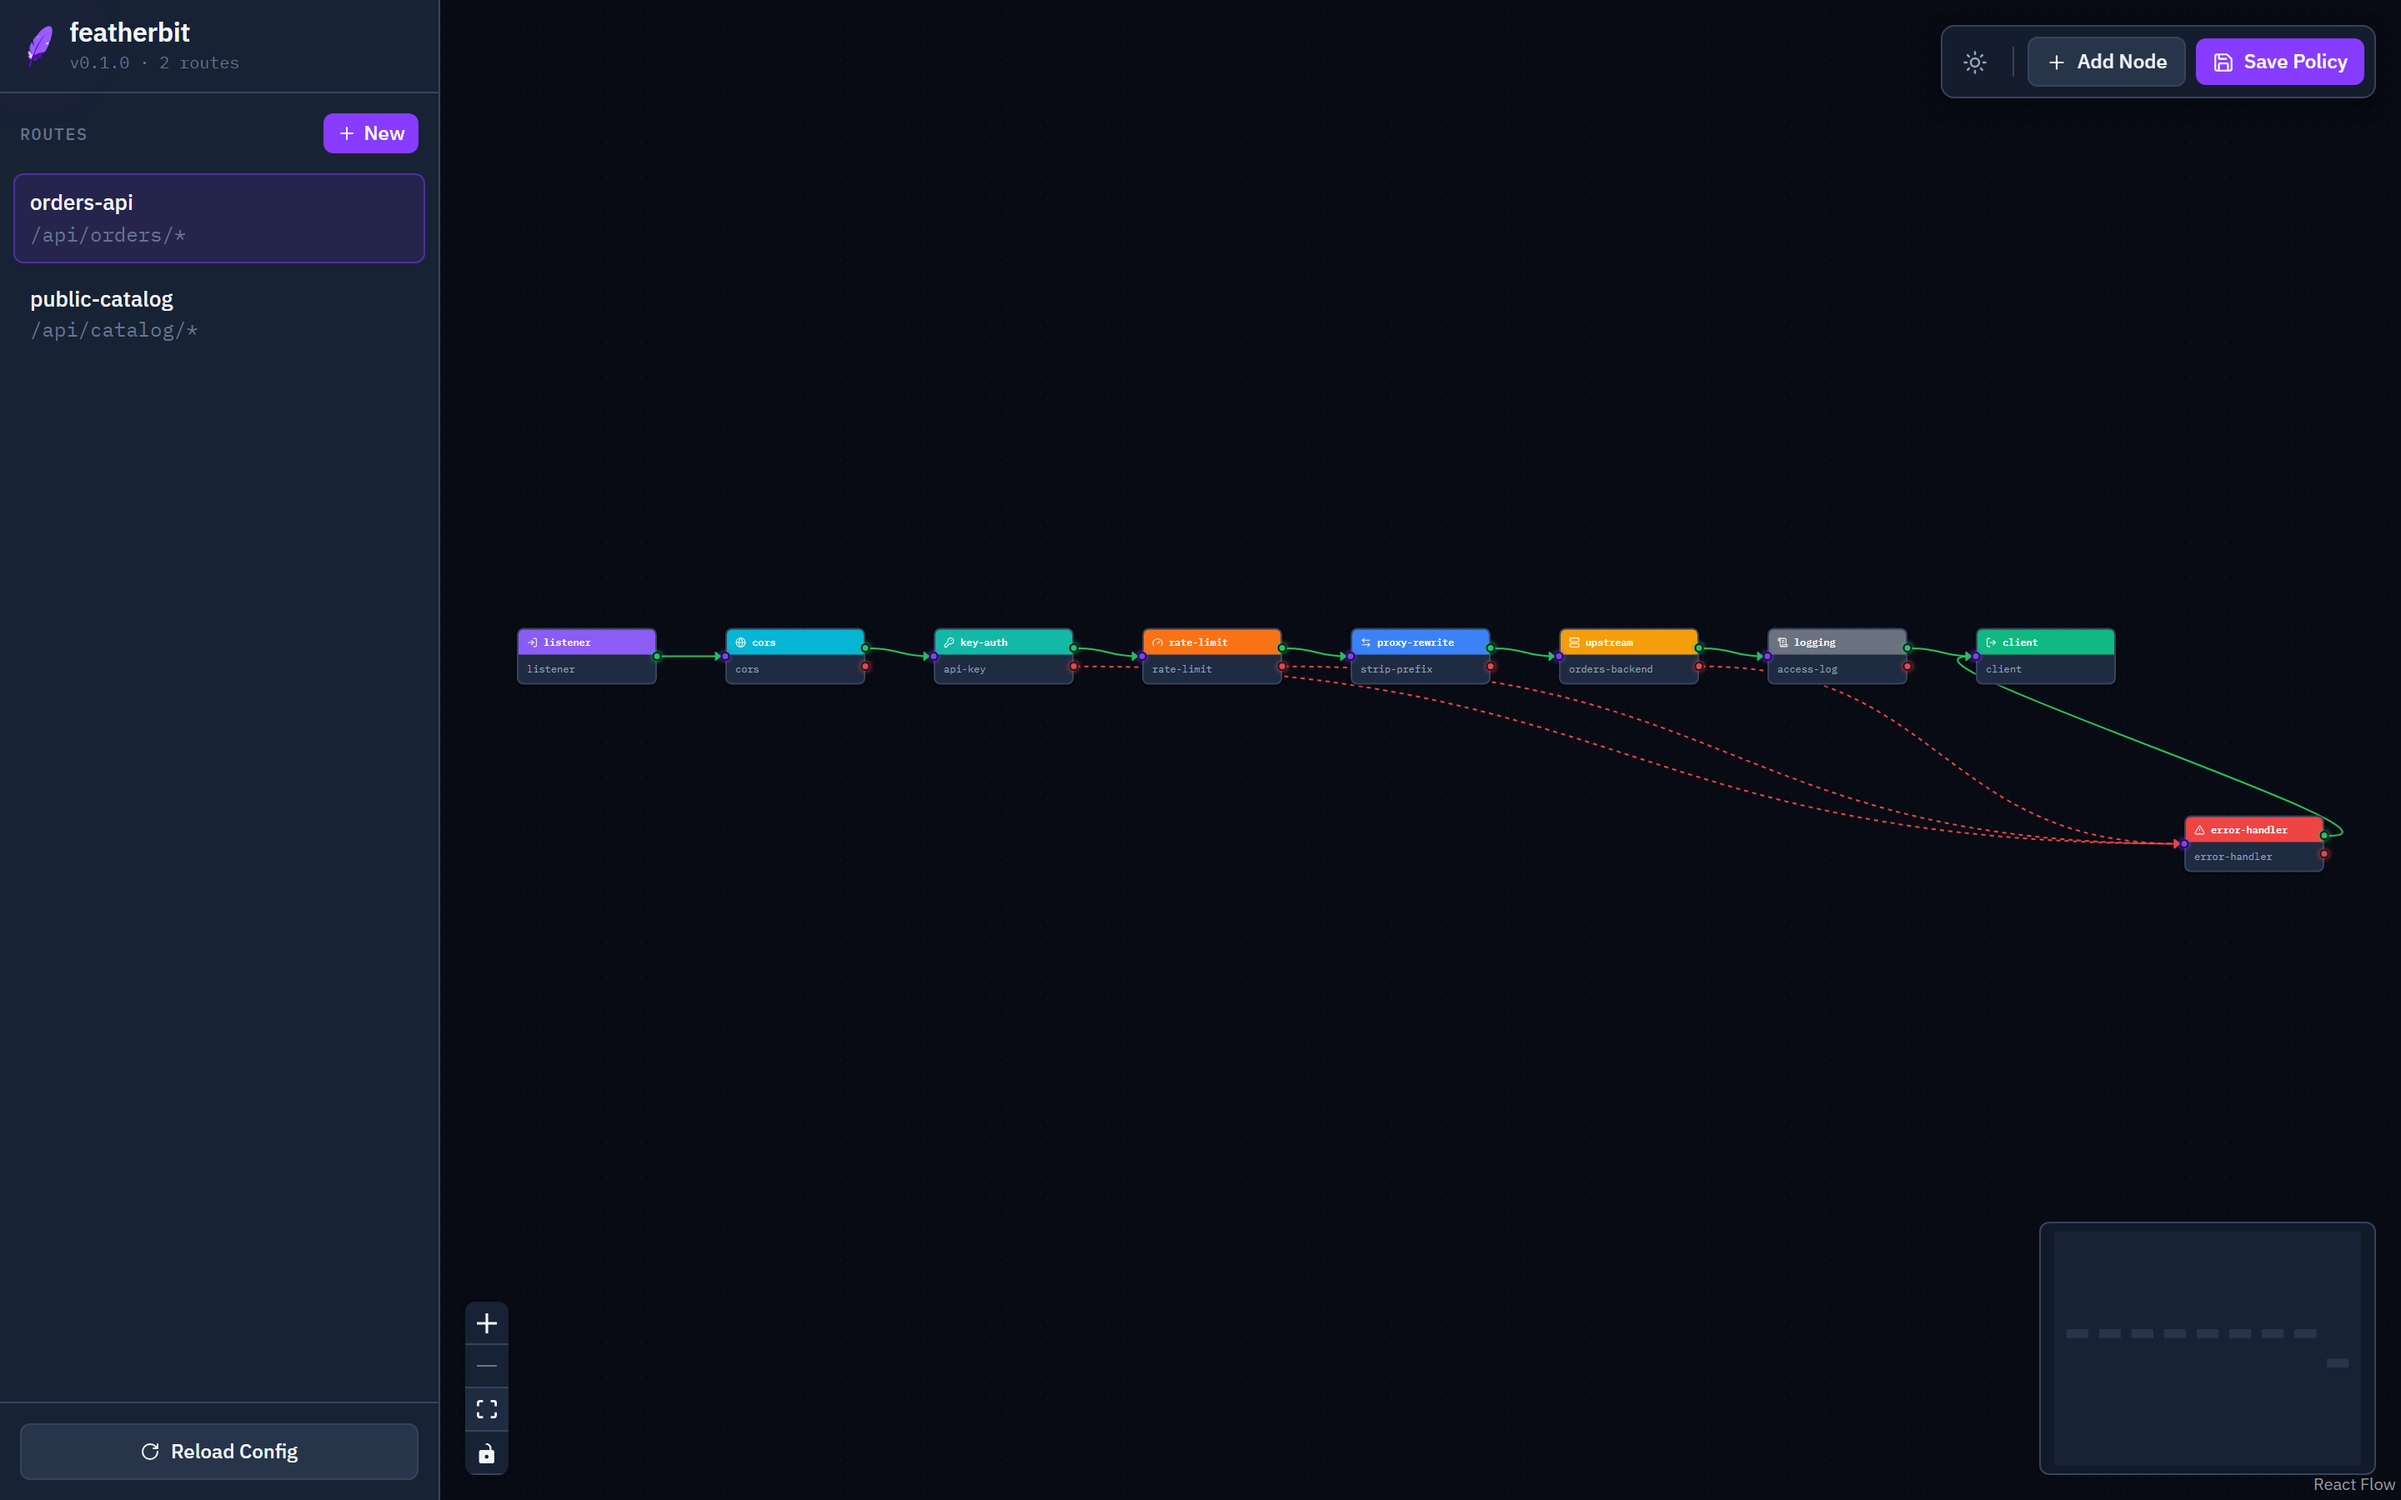
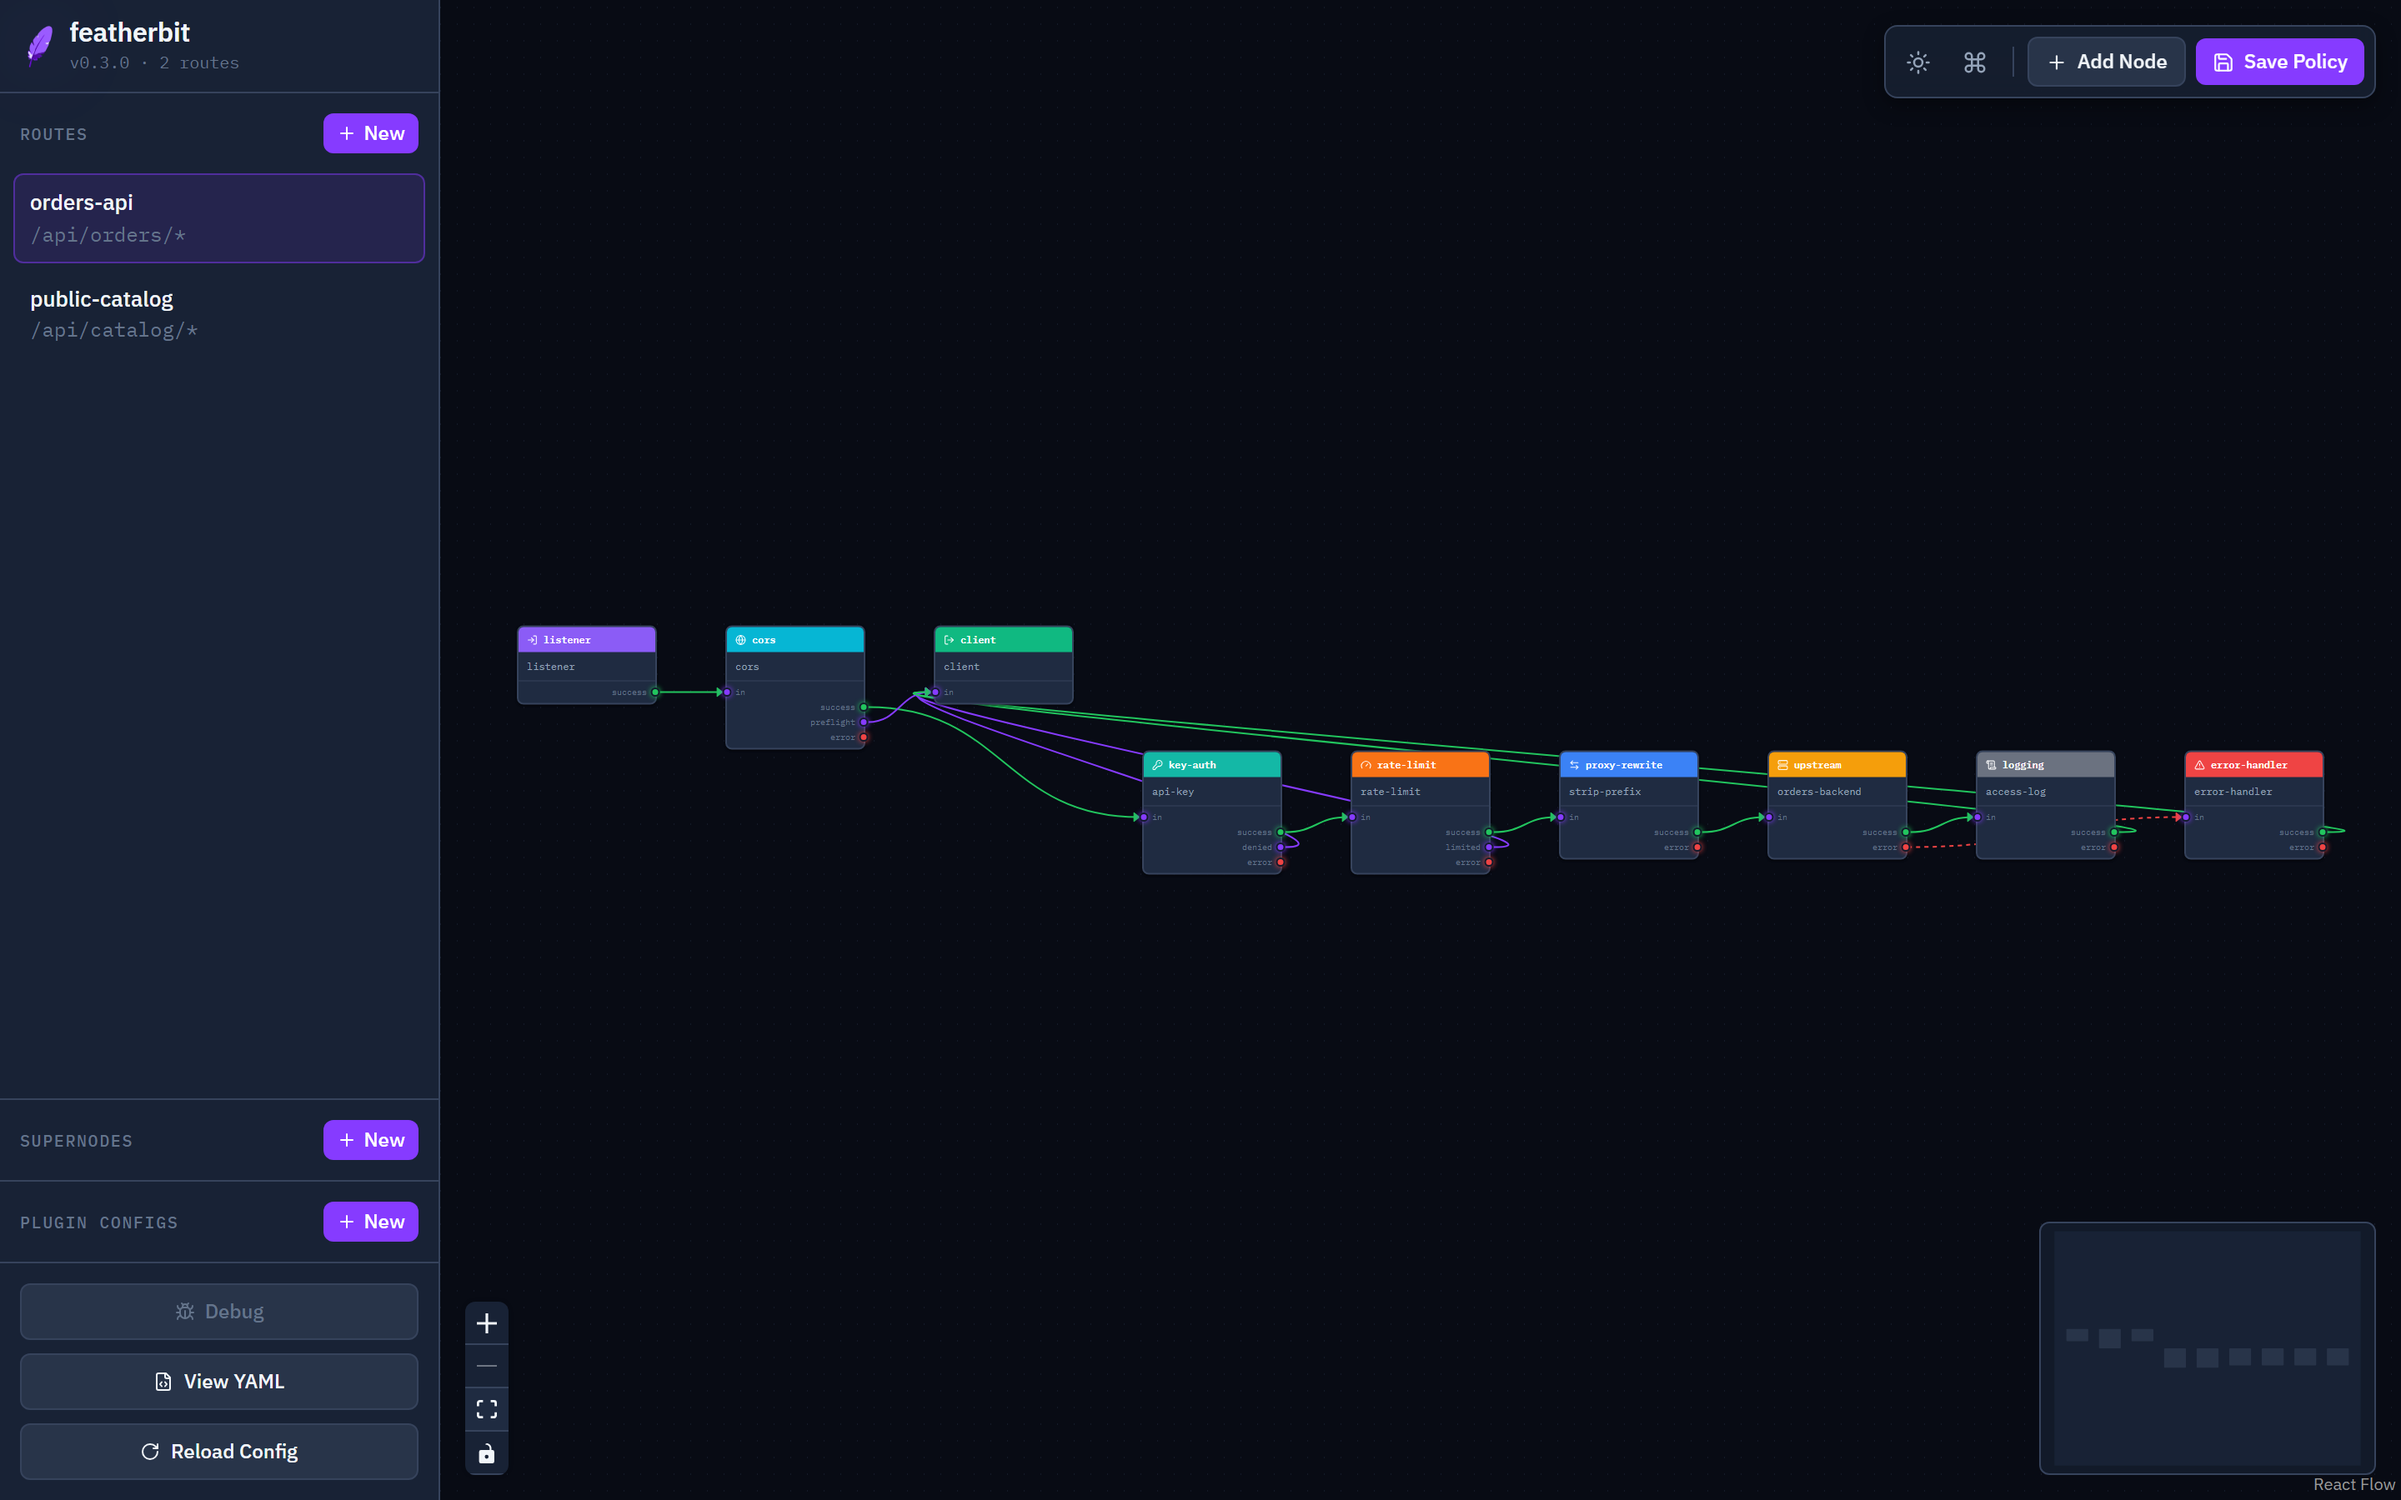
docs: refresh editor screenshots and document the command palette

diff --git a/website/docs/concepts/policies-and-graphs.md b/website/docs/concepts/policies-and-graphs.md
@@ -9,8 +9,8 @@ A **routing policy** is a directed node graph that defines how requests matched 
 
 <UiShot
   name="policy-graph"
-  alt="A policy graph: listener, cors, key-auth, rate-limit, proxy-rewrite, upstream and logging chained by green success edges, with red dashed error edges from several of those nodes converging on one shared error-handler whose success edge returns to client."
-  caption={<>A policy as the editor draws it. Solid green edges are the <code>success</code> path: <code>listener</code> → CORS → auth → rate limit → rewrite → upstream → access log → <code>client</code>. The dashed red edges are <code>error</code> ports, all landing on one <code>error-handler</code> rather than a raw 500. Note what an error edge means here: rate-limit's fires when the limiter <em>store</em> is unreachable — not when a client is throttled. A throttled client is a deliberate outcome, so it leaves on rate-limit's own <code>limited</code> port straight to <code>client</code> with its 429 already prepared, exactly as a rejected API key leaves key-auth on <code>denied</code>. (This capture predates the outcome ports, so those two edges are not drawn.)</>}
+  alt="A policy graph with each node's ports drawn as labeled rows: a green success chain runs listener, cors, key-auth, rate-limit, proxy-rewrite, upstream, logging, client; a single red dashed error edge runs from upstream to error-handler, whose success edge returns to client; violet edges carry cors's preflight, key-auth's denied, and rate-limit's limited outcomes straight to client."
+  caption={<>A policy as the editor draws it, with every node's ports rendered as labeled rows. Solid green edges are the <code>success</code> path: <code>listener</code> → cors → key-auth → rate-limit → proxy-rewrite → upstream → logging → <code>client</code>. The single dashed red edge is an <code>error</code> port: upstream's fires only when the backend itself is unreachable, landing on <code>error-handler</code> rather than a raw 500. The violet edges are a different thing entirely — deliberate outcomes, not failures — so each one exits straight to <code>client</code> with its response already prepared: cors's <code>preflight</code> for an answered OPTIONS request, key-auth's <code>denied</code> for a rejected API key, and rate-limit's <code>limited</code> for a throttled one.</>}
 />
 
 ## Nodes
@@ -182,6 +182,26 @@ policies:
 ```
 
 This same YAML is what the web UI reads and writes — designing the graph on the canvas and editing the file by hand are interchangeable.
+
+## Command palette
+
+The editor has a command palette: `Ctrl+K`, or the command-icon button in the canvas toolbar next to the theme toggle, opens a searchable modal listing every action available in the current context, each row showing its keyboard shortcut as a small chip. Type to filter, arrow keys to move the selection, Enter to run, Escape to close.
+
+One entry — **Toggle port names** — is the switch behind the labeled port rows in the screenshot above. It's on by default; turning it off falls back to bare handle dots with the port name available only as a hover tooltip. The preference is stored in the browser's `localStorage` (key `portNames`) and persists across sessions, independent of whatever policy happens to be open.
+
+The v1 shortcut list:
+
+| Key | Action | Available |
+|---|---|---|
+| `P` | Toggle port names | Always |
+| `R` | New route | Always |
+| `S` | New supernode | Always |
+| `C` | New shared plugin config | Always |
+| `A` | Add plugin to canvas | Editor open on a route or supernode |
+| `Ctrl+S` | Save policy | Editor open on a route or supernode |
+| `Y` | View YAML | A route, supernode, or plugin config selected |
+
+Two actions are palette-only, with no bound key: **Reload gateway config** and **Toggle theme**. Single-letter shortcuts are inert while a text field has focus (so typing "rate" into a filter box doesn't fire **New route**), and an action unavailable in the current context — `A` and `Ctrl+S` before any editor is open, `Y` before anything is selected — is hidden from the palette and its key does nothing.
 
 ## Compilation rules
 

diff --git a/CLAUDE.md b/CLAUDE.md
@@ -101,7 +101,7 @@ Core features:
 - Python scripting runtime (pyo3) — Lua (mlua/Luau) is the shipped scripting runtime
 - `unpack` node
 
-(The web UI node-graph editor and the proxy-cache plugin **are** implemented — the UI is embedded via `rust-embed` and served from `src/admin/ui.rs`; proxy-cache is registered in the `create_plugin` factory. The UI is gated by the default-on `ui` cargo feature (`--no-default-features` = headless build, published as the `-headless` Docker variant) and by `admin.ui_enabled` at runtime.)
+(The web UI node-graph editor and the proxy-cache plugin **are** implemented — the UI is embedded via `rust-embed` and served from `src/admin/ui.rs`; proxy-cache is registered in the `create_plugin` factory. The UI is gated by the default-on `ui` cargo feature (`--no-default-features` = headless build, published as the `-headless` Docker variant) and by `admin.ui_enabled` at runtime. The editor also has a `Ctrl+K` command palette — a searchable, keyboard-navigable list of every editor action with its shortcut — and renders each node's ports as labeled rows, toggleable from the palette (`P`, default on, persisted per browser in `localStorage`).)
 
 TLS termination, HTTP/2, WebSocket, L4 TCP/UDP stream proxying, and graceful shutdown **are** implemented. On SIGTERM/Ctrl+C every listener stops accepting and in-flight HTTP/Admin requests drain (hyper `GracefulShutdown`, bounded by `timeouts.shutdown_timeout_seconds`) before exit; signal handling + the shutdown `watch` channel live in `src/main.rs`. Set `tls:` in `system.yaml` for HTTPS on the data-plane (and `admin.tls` for the Admin API); HTTP/2 is negotiated per connection (ALPN over TLS, h2c over plaintext) and advertised to TLS upstreams. WebSocket upgrades run the policy graph then relay to a `ws://`/`wss://` upstream, accepting both HTTP/1.1 upgrades and HTTP/2 extended CONNECT (RFC 8441) from clients. L4 stream listeners under `stream:` proxy raw TCP/UDP to a load-balanced pool via the shared `src/balancer.rs`. TLS certs hot-reload on cert-file change (ArcSwap + notify watcher; `src/server/tls.rs`), mTLS client-cert verification is supported (`client_ca_path` on `TlsConfig`; the client identity — fingerprint, subject CN, SAN DNS — is exposed to the graph as `__client_cert_fingerprint`/`__client_cert_subject_cn`/`__client_cert_san_dns` via `x509-parser`), SNI multi-cert termination selects a per-hostname cert (`sni_certs` + a `ResolvesServerCert` resolver in `src/server/tls.rs`), and TCP streams support SNI-based TLS passthrough routing (`src/stream/sni.rs`; the shared wildcard matcher `SniPattern` is reused by both). Outbound mTLS is supported per `upstream` node (`client_cert_path`/`client_key_path`, plus `ca_cert_path` for private CAs), applied to both HTTPS proxying and wss relays. Transport code: `src/server/tls.rs`, `src/server/websocket.rs`, `src/stream/`. Follow-ups: CRL/OCSP revocation, RFC 8441 to the upstream, dynamic stream routes.
 

diff --git a/website/docs/concepts/error-handling.md b/website/docs/concepts/error-handling.md
@@ -11,8 +11,8 @@ Failures are not exceptions that abort the pipeline — they are routed through 
 
 <UiShot
   name="policy-graph"
-  alt="A policy graph where red dashed error edges from several nodes converge on a single error-handler node, whose success edge returns to client."
-  caption="Error routing is visible in the graph itself: the red dashed edges are error ports, each carrying its Context to one shared handler. What reaches that handler is a failure, not a rejection — rate-limit's error edge fires when the limiter store is unreachable, not when a client is throttled. A throttled client is a deliberate outcome and exits rate-limit's own limited port straight to client, its 429 already prepared, just as a rejected API key exits key-auth on denied. (This capture predates the outcome ports, so those two edges are not drawn.)"
+  alt="A policy graph with a green success chain from listener through cors, key-auth, rate-limit, proxy-rewrite, upstream, and logging to client; a single red dashed error edge runs from upstream to error-handler, whose own success edge returns to client; violet edges carry cors's preflight, key-auth's denied, and rate-limit's limited outcomes straight to client."
+  caption="Error routing is visible in the graph itself: the one red dashed edge is an error port — it fires only when upstream itself can't be reached, carrying its Context to the shared error-handler, whose success edge returns to client. The violet edges are a different thing entirely: cors's preflight, key-auth's denied, and rate-limit's limited are deliberate outcomes, not failures, so each exits straight to client with its response — a 204, 401, or 429 — already prepared, never touching error-handler."
 />
 
 ## What happens when a node fails
